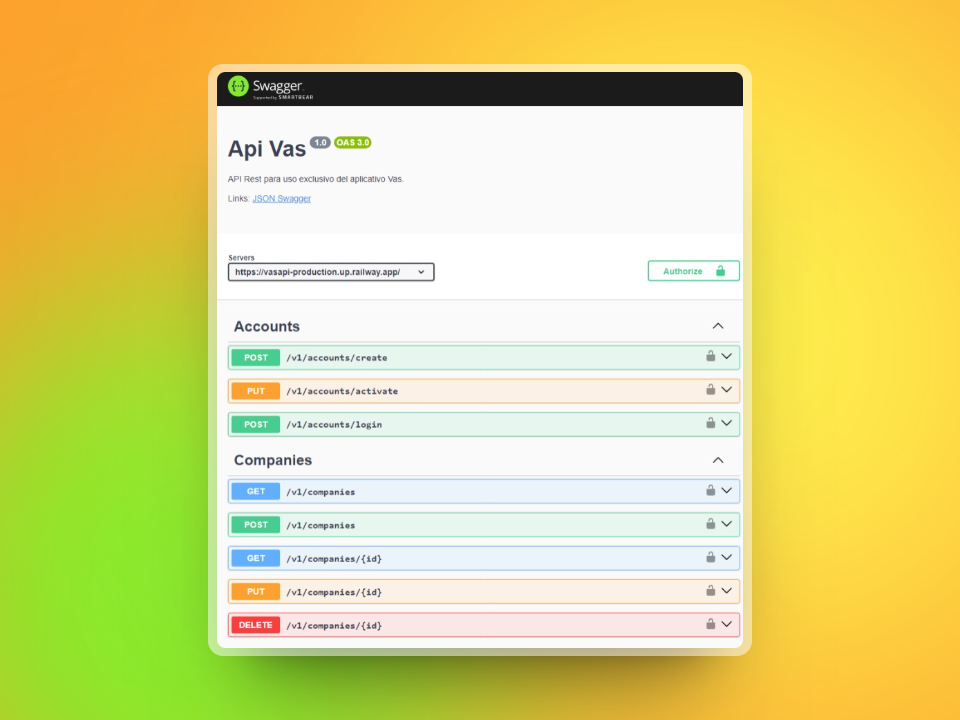
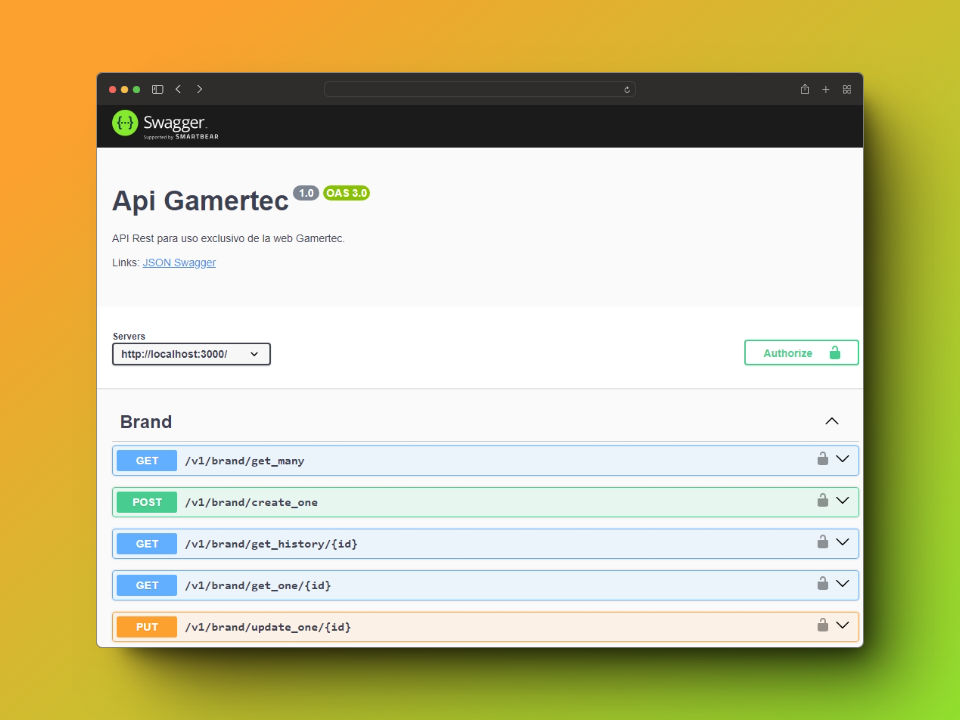
update: image readme y project name swagger

diff --git a/src/main.ts b/src/main.ts
@@ -6,9 +6,9 @@ async function bootstrap() {
    const app = await NestFactory.create(AppModule);
    app.useGlobalFilters(new HttpExceptionFilter());
    const config = new DocumentBuilder()
-      .setTitle("Api Vas")
+      .setTitle("Api Gamertec")
       .setDescription(
-         `API Rest para uso exclusivo del aplicativo Vas. <br />
+         `API Rest para uso exclusivo de la web Gamertec. <br />
          <br />
          Links: [JSON Swagger](${process.env.API_SERVER ?? "http://localhost:3000/"}swagger-json)`,
       )
